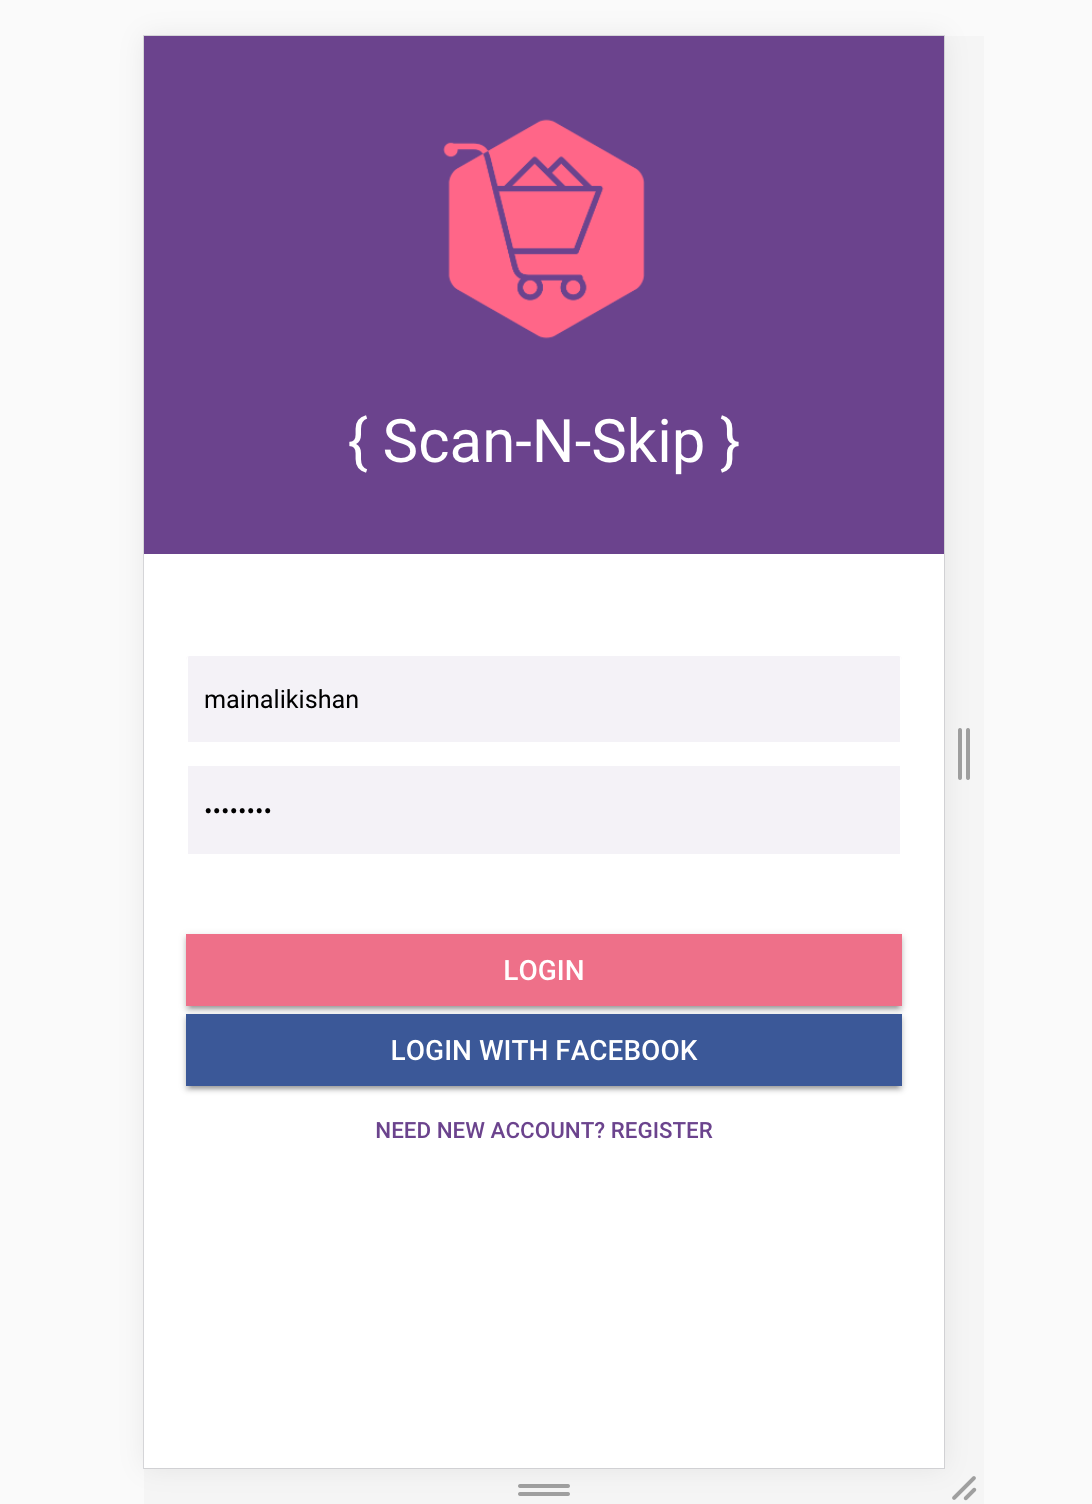
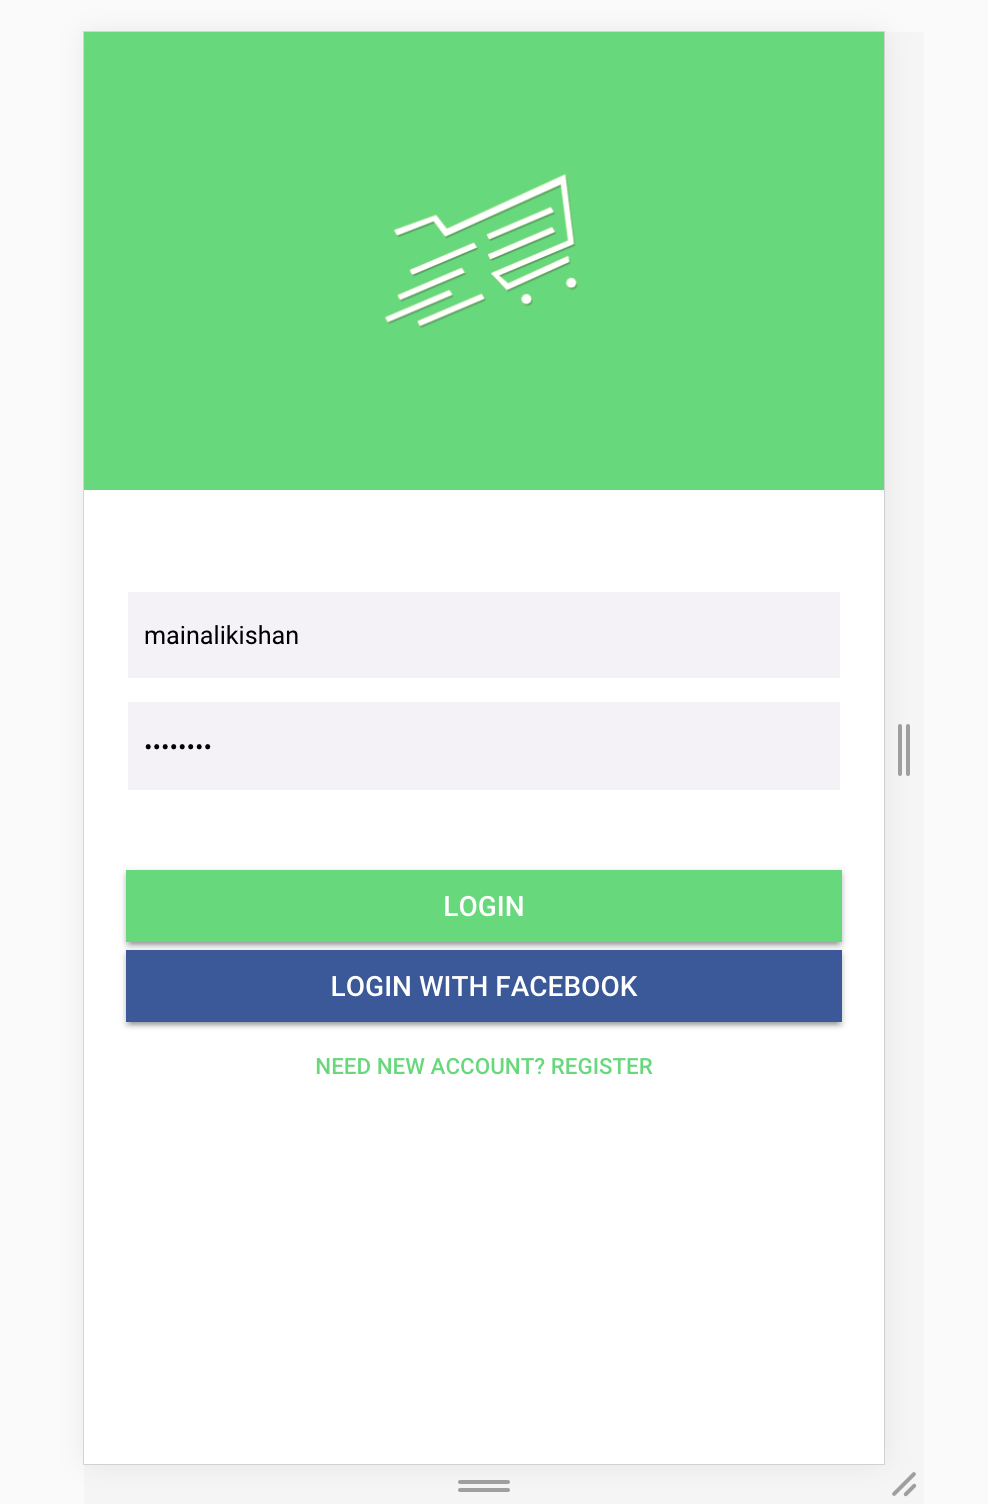
Login UI screenshot updated

diff --git a/www/build/main.js b/www/build/main.js
@@ -204,19 +204,17 @@ var __metadata = (this && this.__metadata) || function (k, v) {
     if (typeof Reflect === "object" && typeof Reflect.metadata === "function") return Reflect.metadata(k, v);
 };
 
-// import { NavController } from 'ionic-angular';
 
 
 
 
 var LoginPage = (function () {
-    function LoginPage(nav, auth, alertCtrl, loadingCtrl, fire, navCtrl) {
+    function LoginPage(nav, auth, alertCtrl, loadingCtrl, fire) {
         this.nav = nav;
         this.auth = auth;
         this.alertCtrl = alertCtrl;
         this.loadingCtrl = loadingCtrl;
         this.fire = fire;
-        this.navCtrl = navCtrl;
         this.registerCredentials = { email: '', password: '' };
     }
     LoginPage.prototype.createAccount = function () {
@@ -227,10 +225,10 @@ var LoginPage = (function () {
         this.showLoading();
         this.auth.login(this.registerCredentials).subscribe(function (allowed) {
             if (allowed) {
-                _this.nav.setRoot('HomePage');
+                _this.nav.setRoot(HomePage);
             }
             else {
-                _this.showError("Access Denied");
+                _this.showError("The username and password you entered did not match our records. Please double-check and try again.");
             }
         }, function (error) {
             _this.showError(error);
@@ -246,7 +244,7 @@ var LoginPage = (function () {
     LoginPage.prototype.showError = function (text) {
         this.loading.dismiss();
         var alert = this.alertCtrl.create({
-            title: 'Fail',
+            title: 'Invalid!',
             subTitle: text,
             buttons: ['OK']
         });
@@ -260,16 +258,12 @@ var LoginPage = (function () {
     };
     LoginPage = __decorate([
         Object(__WEBPACK_IMPORTED_MODULE_0__angular_core__["m" /* Component */])({
-            selector: 'page-login',template:/*ion-inline-start:"/Users/mainalikishan/School/FINALSEM/CS595/Client/scannskipUI/src/pages/login/login.html"*/'<ion-content class="login-content" padding>\n  <div class="logo-box">\n    <ion-row>\n      <ion-col></ion-col>\n      <ion-col width-67>\n        <img src="assets/imgs/logo.png" />\n      </ion-col>\n      <ion-col></ion-col>\n    </ion-row>\n    <h1 class="intro-title">{{ \'{\' }} Scan-N-Skip {{ \'}\' }}</h1>\n  </div>\n\n  <div class="login-box">\n    <form (ngSubmit)="login()" #registerForm="ngForm">\n      <ion-row>\n        <ion-col>\n          <ion-list inset>\n            <ion-item>\n              <ion-input type="text" placeholder="Email" name="email" [(ngModel)]="registerCredentials.email" required></ion-input>\n            </ion-item>\n\n            <ion-item>\n              <ion-input type="password" placeholder="Password" name="password" [(ngModel)]="registerCredentials.password" required></ion-input>\n            </ion-item>\n\n          </ion-list>\n        </ion-col>\n      </ion-row>\n\n      <ion-row>\n        <ion-col class="signup-col">\n          <button ion-button class="submit-btn" full type="submit" [disabled]="!registerForm.form.valid">Login</button>\n          <button ion-button (click)="loginWithFacebook()" full class="btn-facebook">\n            Login with Facebook\n          </button>\n          <button ion-button class="register-btn" block clear (click)="createAccount()">Need new account? Register</button>\n        </ion-col>\n      </ion-row>\n    </form>\n  </div>\n</ion-content>\n'/*ion-inline-end:"/Users/mainalikishan/School/FINALSEM/CS595/Client/scannskipUI/src/pages/login/login.html"*/
+            selector: 'page-login',template:/*ion-inline-start:"/Users/mainalikishan/School/FINALSEM/CS595/Client/scannskipUI/src/pages/login/login.html"*/'<ion-content class="login-content" padding>\n  <div class="logo-box">\n    <ion-row>\n      <ion-col></ion-col>\n      <ion-col width-67>\n        <img src="assets/imgs/logo(white).png" />\n      </ion-col>\n      <ion-col></ion-col>\n    </ion-row>\n    <!-- <h1 class="intro-title">{{ \'{\' }} Scan-N-Skip {{ \'}\' }}</h1> -->\n  </div>\n\n  <div class="login-box">\n    <form (ngSubmit)="login()" #registerForm="ngForm">\n      <ion-row>\n        <ion-col>\n          <ion-list inset>\n            <ion-item>\n              <ion-input type="text" placeholder="Email" name="email" [(ngModel)]="registerCredentials.email" required></ion-input>\n            </ion-item>\n\n            <ion-item>\n              <ion-input type="password" placeholder="Password" name="password" [(ngModel)]="registerCredentials.password" required></ion-input>\n            </ion-item>\n\n          </ion-list>\n        </ion-col>\n      </ion-row>\n\n      <ion-row>\n        <ion-col class="signup-col">\n          <button ion-button class="submit-btn" full type="submit" [disabled]="!registerForm.form.valid">Login</button>\n          <button ion-button (click)="loginWithFacebook()" full class="btn-facebook">\n            Login with Facebook\n          </button>\n          <button ion-button class="register-btn" block clear (click)="createAccount()">Need new account? Register</button>\n        </ion-col>\n      </ion-row>\n    </form>\n  </div>\n</ion-content>\n'/*ion-inline-end:"/Users/mainalikishan/School/FINALSEM/CS595/Client/scannskipUI/src/pages/login/login.html"*/
         }),
-        __metadata("design:paramtypes", [__WEBPACK_IMPORTED_MODULE_1_ionic_angular__["h" /* NavController */],
-            __WEBPACK_IMPORTED_MODULE_4__providers_auth_service_auth_service__["a" /* AuthServiceProvider */],
-            __WEBPACK_IMPORTED_MODULE_1_ionic_angular__["a" /* AlertController */],
-            __WEBPACK_IMPORTED_MODULE_1_ionic_angular__["f" /* LoadingController */],
-            __WEBPACK_IMPORTED_MODULE_2_angularfire2_auth__["a" /* AngularFireAuth */],
-            __WEBPACK_IMPORTED_MODULE_1_ionic_angular__["h" /* NavController */]])
+        __metadata("design:paramtypes", [typeof (_a = typeof __WEBPACK_IMPORTED_MODULE_1_ionic_angular__["h" /* NavController */] !== "undefined" && __WEBPACK_IMPORTED_MODULE_1_ionic_angular__["h" /* NavController */]) === "function" && _a || Object, typeof (_b = typeof __WEBPACK_IMPORTED_MODULE_4__providers_auth_service_auth_service__["a" /* AuthServiceProvider */] !== "undefined" && __WEBPACK_IMPORTED_MODULE_4__providers_auth_service_auth_service__["a" /* AuthServiceProvider */]) === "function" && _b || Object, typeof (_c = typeof __WEBPACK_IMPORTED_MODULE_1_ionic_angular__["a" /* AlertController */] !== "undefined" && __WEBPACK_IMPORTED_MODULE_1_ionic_angular__["a" /* AlertController */]) === "function" && _c || Object, typeof (_d = typeof __WEBPACK_IMPORTED_MODULE_1_ionic_angular__["f" /* LoadingController */] !== "undefined" && __WEBPACK_IMPORTED_MODULE_1_ionic_angular__["f" /* LoadingController */]) === "function" && _d || Object, typeof (_e = typeof __WEBPACK_IMPORTED_MODULE_2_angularfire2_auth__["a" /* AngularFireAuth */] !== "undefined" && __WEBPACK_IMPORTED_MODULE_2_angularfire2_auth__["a" /* AngularFireAuth */]) === "function" && _e || Object])
     ], LoginPage);
     return LoginPage;
+    var _a, _b, _c, _d, _e;
 }());
 
 //# sourceMappingURL=login.js.map

diff --git a/src/pages/login/login.ts b/src/pages/login/login.ts
@@ -1,7 +1,5 @@
 import { Component } from '@angular/core';
-// import { NavController } from 'ionic-angular';
-import { NavController, AlertController, LoadingController, Loading, IonicPage } from 'ionic-angular';
-
+import { NavController, AlertController, LoadingController, Loading} from 'ionic-angular';
 import { AngularFireAuth } from 'angularfire2/auth';
 import firebase from 'firebase';
 import { AuthServiceProvider } from '../../providers/auth-service/auth-service';
@@ -19,8 +17,7 @@ export class LoginPage {
     private auth: AuthServiceProvider,
     private alertCtrl: AlertController,
     private loadingCtrl: LoadingController,
-    private fire: AngularFireAuth,
-    public navCtrl: NavController) {
+    private fire: AngularFireAuth) {
 
   }
 
@@ -32,9 +29,9 @@ export class LoginPage {
     this.showLoading()
     this.auth.login(this.registerCredentials).subscribe(allowed => {
       if (allowed) {
-        this.nav.setRoot('HomePage');
+        this.nav.setRoot(HomePage);
       } else {
-        this.showError("Access Denied");
+        this.showError("The username and password you entered did not match our records. Please double-check and try again.");
       }
     },
       error => {
@@ -54,7 +51,7 @@ export class LoginPage {
     this.loading.dismiss();
 
     let alert = this.alertCtrl.create({
-      title: 'Fail',
+      title: 'Invalid!',
       subTitle: text,
       buttons: ['OK']
     });

diff --git a/www/build/main.css b/www/build/main.css
@@ -25721,9 +25721,9 @@ page-login .login-content .scroll-content {
 }
 
 page-login .login-content .logo-box {
-  background: #6C448D;
-  padding-top: 30px;
-  padding-bottom: 30px;
+  background: #69D77D;
+  padding-top: 50px;
+  padding-bottom: 50px;
 }
 
 page-login .login-content .intro-title {
@@ -25772,11 +25772,11 @@ page-login .login-content .item-inner {
 }
 
 page-login .login-content .submit-btn {
-  background: #EE7089;
+  background: #69D77D;
 }
 
 page-login .login-content .register-btn {
-  color: #6C448D;
+  color: #69D77D;
   font-size: 0.8em;
 }
 

diff --git a/src/pages/login/login.scss b/src/pages/login/login.scss
@@ -5,9 +5,9 @@ page-login {
     }
 
     .logo-box {
-      background: #6C448D;
-      padding-top: 30px;
-      padding-bottom: 30px;
+      background: #69D77D;
+      padding-top: 50px;
+      padding-bottom: 50px;
     }
 
     .intro-title {
@@ -52,11 +52,11 @@ page-login {
     }
 
     .submit-btn {
-      background: #EE7089;
+      background: #69D77D;
     }
 
     .register-btn {
-      color: #6C448D;
+      color: #69D77D;
       font-size: 0.8em;
     }
 

diff --git a/src/pages/login/login.html b/src/pages/login/login.html
@@ -3,11 +3,11 @@
     <ion-row>
       <ion-col></ion-col>
       <ion-col width-67>
-        <img src="assets/imgs/logo.png" />
+        <img src="assets/imgs/logo(white).png" />
       </ion-col>
       <ion-col></ion-col>
     </ion-row>
-    <h1 class="intro-title">{{ '{' }} Scan-N-Skip {{ '}' }}</h1>
+    <!-- <h1 class="intro-title">{{ '{' }} Scan-N-Skip {{ '}' }}</h1> -->
   </div>
 
   <div class="login-box">
